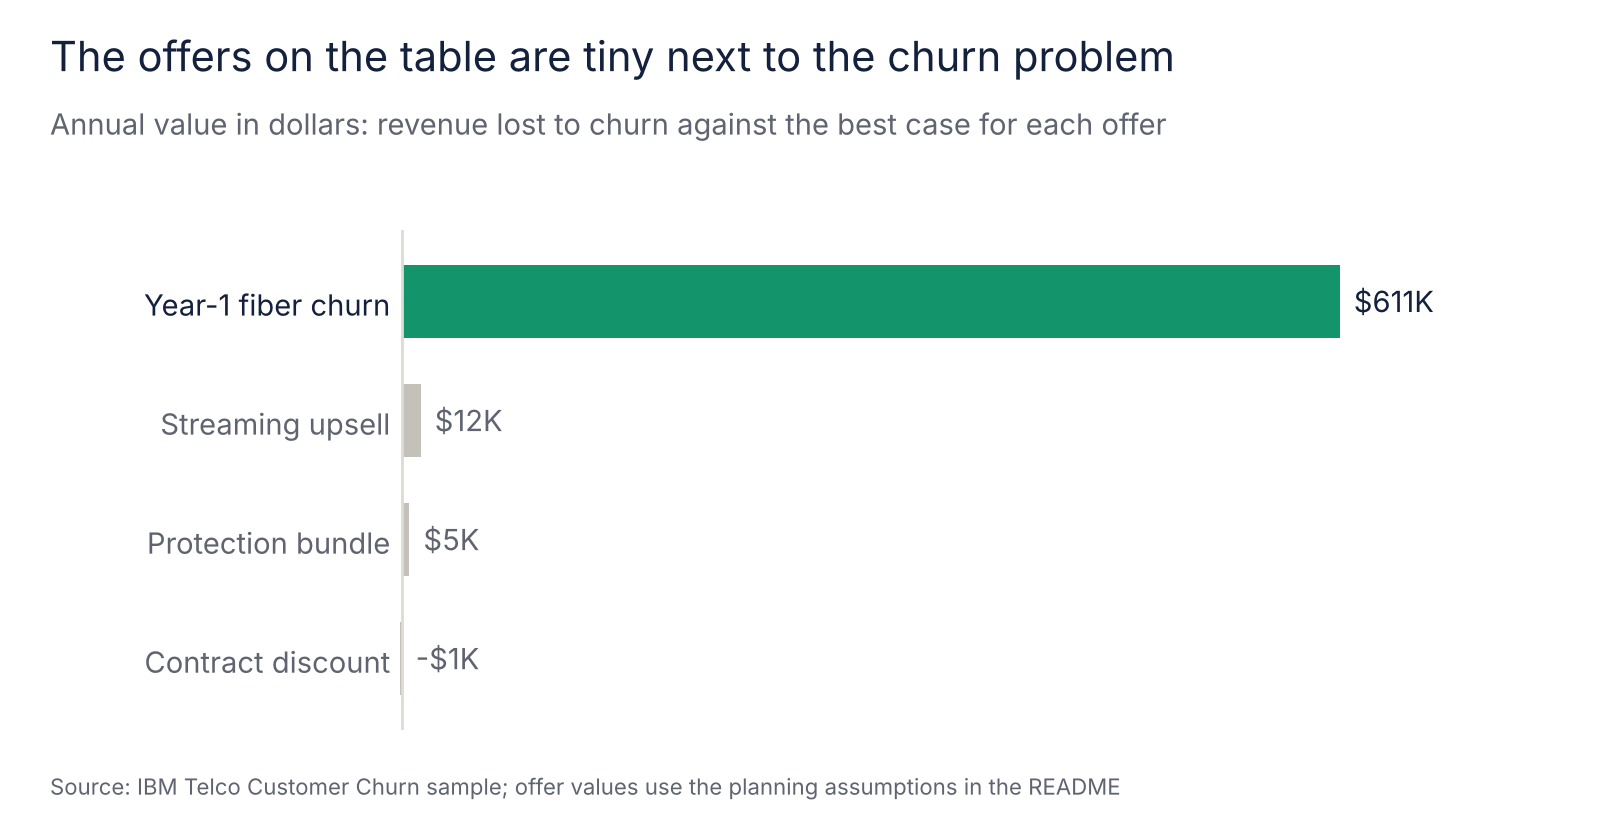
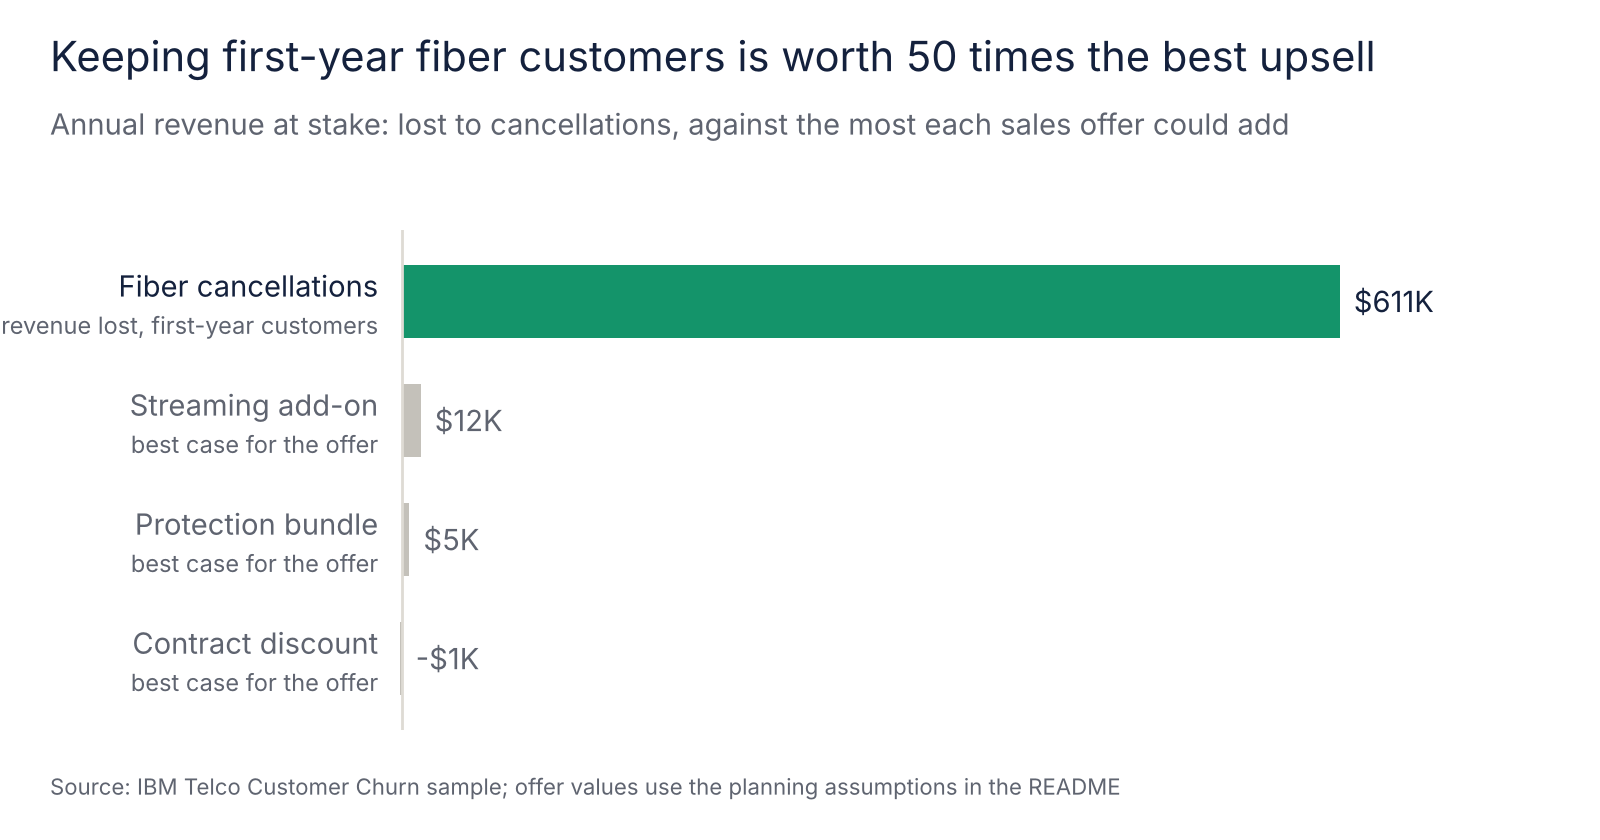
Charts a first-time reader can follow: plain headlines and explained labels

diff --git a/scripts/brand_style.py b/scripts/brand_style.py
@@ -8,6 +8,7 @@ Colours are validated with the dataviz palette checks (lightness band, chroma, c
 import matplotlib
 import matplotlib.pyplot as plt
 import matplotlib.ticker
+import matplotlib.transforms
 
 INK = "#14213d"        # navy: headlines, values, key labels
 MUTED = "#5f6470"      # deck, axis labels, source line (5.9:1 on white)
@@ -93,9 +94,9 @@ VALUE = 10.5                                         # value and category label 
 
 def chart(height=4.5, label_in=1.6, xaxis=False, right_in=0.55):
     """A figure with fixed margins. label_in is the room for category labels on the left;
-    xaxis reserves room for tick labels under the plot."""
+    xaxis reserves room under the plot: True for tick labels plus an axis title, "ticks" for tick labels only."""
     fig = plt.figure(figsize=(WIDTH, height), dpi=200)
-    bottom_in = 1.0 if xaxis else 0.55
+    bottom_in = 0.8 if xaxis == "ticks" else 1.0 if xaxis else 0.55
     left = (LEFT_IN + label_in) / WIDTH
     ax = fig.add_axes([left, bottom_in / height, 1 - left - right_in / WIDTH,
                        1 - (PLOT_TOP_IN + bottom_in) / height])
@@ -123,7 +124,23 @@ def save(fig, path):
     plt.close(fig)
 
 
-def hbar(ax, labels, values, highlight, fmt, color, xmax=None):
+def _row_labels(ax, ys, labels, highlight, sublabels=None):
+    """Category labels at the left of the plot, with an optional smaller second line that explains them."""
+    ax.set_yticks(ys)
+    if not sublabels:
+        ax.set_yticklabels(labels)
+        for i, t in enumerate(ax.get_yticklabels()):
+            t.set_color(INK if i in highlight else MUTED)
+        return
+    ax.set_yticklabels([""] * len(ys))
+    tr = matplotlib.transforms.blended_transform_factory(ax.transAxes, ax.transData)
+    for i, (y, lab, sub) in enumerate(zip(ys, labels, sublabels)):
+        ax.text(-0.02, y + 0.13, lab, transform=tr, ha="right", va="center", fontsize=VALUE,
+                color=INK if i in highlight else MUTED)
+        ax.text(-0.02, y - 0.2, sub, transform=tr, ha="right", va="center", fontsize=8.5, color=MUTED)
+
+
+def hbar(ax, labels, values, highlight, fmt, color, xmax=None, sublabels=None):
     """Horizontal bars, first item at the top. highlight: set of indexes drawn in the project colour."""
     n = len(values)
     ys = list(range(n))[::-1]
@@ -135,14 +152,11 @@ def hbar(ax, labels, values, highlight, fmt, color, xmax=None):
         ax.barh(y, v, height=0.62, color=c, linewidth=0)
         small_neg = v < 0 and abs(v) < span * 0.05   # label a tiny negative on the right, like the rest
         ha, x = ("left", max(v, 0) + span * 0.015) if v >= 0 or small_neg else ("right", v - span * 0.015)
-        ax.text(x, y, fmt(v), va="center", ha=ha, fontsize=VALUE, color=INK if i in highlight else MUTED)
-    ax.set_yticks(ys)
-    ax.set_yticklabels(labels)
-    for i, t in enumerate(ax.get_yticklabels()):
-        t.set_color(INK if i in highlight else MUTED)
+        ax.text(x, y, fmt[i] if isinstance(fmt, list) else fmt(v), va="center", ha=ha, fontsize=VALUE, color=INK if i in highlight else MUTED)
+    _row_labels(ax, ys, labels, highlight, sublabels)
     ax.set_ylim(-0.6, n - 0.4)
     big_neg = lo < -span * 0.05
-    ax.set_xlim(lo - span * 0.16 if big_neg else min(lo, 0), hi + span * 0.16)
+    ax.set_xlim(lo - span * 0.3 if big_neg else min(lo, 0), hi + span * 0.16)
     ax.set_xticks([])
     ax.axvline(0, color=HAIRLINE, linewidth=1)
     return ax
@@ -155,7 +169,7 @@ def vbar(ax, labels, values, highlight, fmt, color, ymax=None):
     for x, v, i in zip(xs, values, range(len(values))):
         c = color if i in highlight else CONTEXT
         ax.bar(x, v, width=0.62, color=c, linewidth=0)
-        ax.text(x, v + hi * 0.02, fmt(v), ha="center", va="bottom", fontsize=VALUE,
+        ax.text(x, v + hi * 0.02, fmt[i] if isinstance(fmt, list) else fmt(v), ha="center", va="bottom", fontsize=VALUE,
                 color=INK if i in highlight else MUTED)
     ax.set_xticks(list(xs))
     ax.set_xticklabels(labels)
@@ -167,7 +181,7 @@ def vbar(ax, labels, values, highlight, fmt, color, ymax=None):
     return ax
 
 
-def dotrange(ax, labels, est, lo, hi, highlight, fmt, color, xlim=None, zero=True):
+def dotrange(ax, labels, est, lo, hi, highlight, fmt, color, xlim=None, zero=True, sublabels=None):
     """Estimate with its interval: a dot on a range line, first item at the top."""
     n = len(est)
     ys = list(range(n))[::-1]
@@ -177,10 +191,7 @@ def dotrange(ax, labels, est, lo, hi, highlight, fmt, color, xlim=None, zero=Tru
         ax.scatter([e], [y], s=80, color=c, zorder=3, linewidths=0)
         ax.text(e, y + 0.26, fmt(e), ha="center", va="bottom", fontsize=VALUE,
                 color=INK if i in highlight else MUTED)
-    ax.set_yticks(ys)
-    ax.set_yticklabels(labels)
-    for i, t in enumerate(ax.get_yticklabels()):
-        t.set_color(INK if i in highlight else MUTED)
+    _row_labels(ax, ys, labels, highlight, sublabels)
     ax.set_ylim(-0.6, n - 0.2)
     if xlim:
         ax.set_xlim(*xlim)

diff --git a/scripts/make_charts.py b/scripts/make_charts.py
@@ -23,7 +23,7 @@ b.hbar(ax, [short.get(g, g) for g in c.churn_group], (c.share_of_churned_revenue
        {list(c.churn_group).index(target)}, lambda v: f"{v:.0f}%", HL)
 share = c.loc[c.churn_group == target, "customers"].iloc[0] / total_customers
 b.titles(fig, f"First-year fiber customers are {share:.0%} of the base but 37% of lost revenue",
-         "Share of churned revenue by customer group. Monthly means a month-to-month plan")
+         "Share of revenue lost when customers cancel, by group. Monthly means no contract")
 b.credit(fig, "IBM Telco Customer Churn sample, 5,517 internet customers")
 b.save(fig, OUT / "01_where_churned_revenue_comes_from.png")
 
@@ -35,10 +35,12 @@ contract = pd.read_csv(RES / "contract_offer_scenarios.csv").annual_net_value.ma
 fiber_lost = c.loc[c.churn_group == target, "revenue_churned"].iloc[0]
 vals = [fiber_lost / 1e3, upsell / 1e3, bundle / 1e3, contract / 1e3]
 fig, ax = b.chart(height=4.2, label_in=1.75)
-b.hbar(ax, ["Year-1 fiber churn", "Streaming upsell", "Protection bundle", "Contract discount"], vals, {0},
-       lambda v: f"-${abs(v):,.0f}K" if v < 0 else f"${v:,.0f}K", HL)
-b.titles(fig, "The offers on the table are tiny next to the churn problem",
-         "Annual value in dollars: revenue lost to churn against the best case for each offer")
+b.hbar(ax, ["Fiber cancellations", "Streaming add-on", "Protection bundle", "Contract discount"], vals, {0},
+       lambda v: f"-${abs(v):,.0f}K" if v < 0 else f"${v:,.0f}K", HL,
+       sublabels=["revenue lost, first-year customers", "best case for the offer", "best case for the offer",
+                  "best case for the offer"])
+b.titles(fig, "Keeping first-year fiber customers is worth 50 times the best upsell",
+         "Annual revenue at stake: lost to cancellations, against the most each sales offer could add")
 b.credit(fig, "IBM Telco Customer Churn sample; offer values use the planning assumptions in the README")
 b.save(fig, OUT / "02_offers_are_small.png")
 print("charts saved")

diff --git a/README.md b/README.md
@@ -26,7 +26,7 @@ The business sells internet service plus six optional add-ons: four "protection"
 
 ![First-year fiber customers are 16% of the base but 37% of lost revenue](charts/01_where_churned_revenue_comes_from.png)
 
-![The offers on the table are tiny next to the churn problem](charts/02_offers_are_small.png)
+![Keeping first-year fiber customers is worth 50 times the best upsell](charts/02_offers_are_small.png)
 
 ## Results
 
